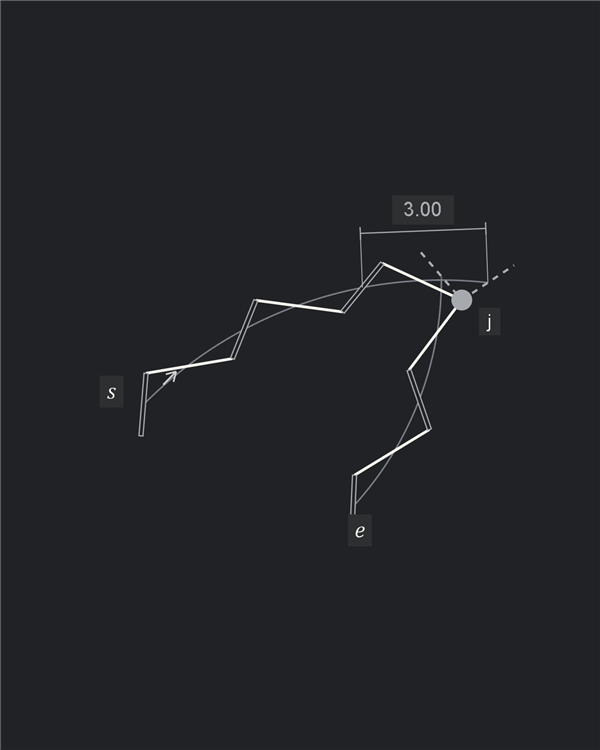
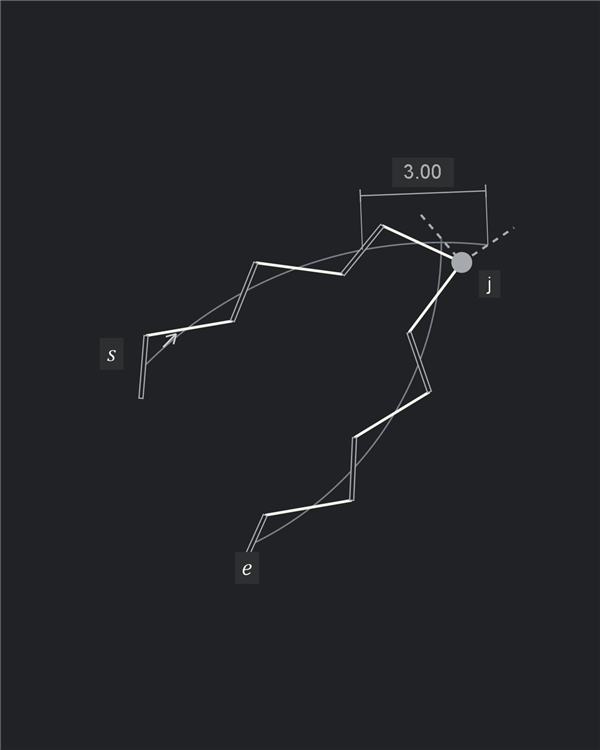
Equalize two-arm corner slit counts and animation timing

Changed region(s): [[0.18, 0.2147, 0.84, 0.736], [0.39, 0.736, 0.42, 0.7667]]

diff --git a/examples/illustrated/README.md b/examples/illustrated/README.md
@@ -186,7 +186,7 @@ Solve one source, then reveal corresponding openings on its reflected copy. The 
 
 ### Curved corners
 
-The same approach along each arm applies to an arc/line pair and an arc/arc pair. Each virtual slit continues the position and orientation of its row. `A03`, `A04`.
+The same approach along each arm applies to an arc/line pair and an arc/arc pair. Each virtual slit continues the position and orientation of its row. All three examples have three real slits per arm and two virtual slits, with identical $16.6\,\mathrm{s}$ timelines. The arc/arc illustration extends the outgoing outer end to fit its third nominal slit; its circle and corner construction stay fixed. `A03`, `A04`.
 
 ![Curved and straight arms share a corner hole](assets/corner-arc-line.gif)
 
